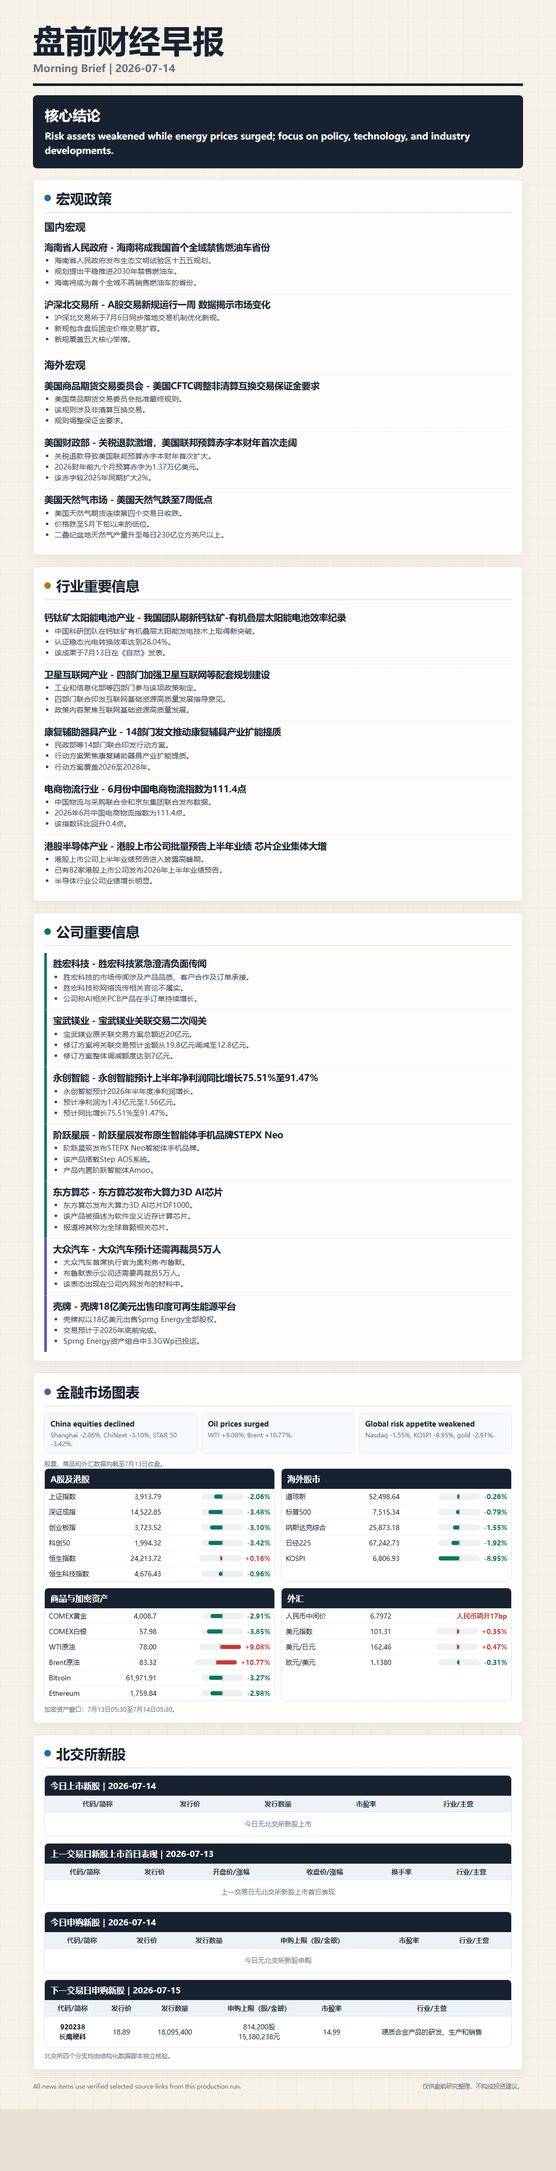
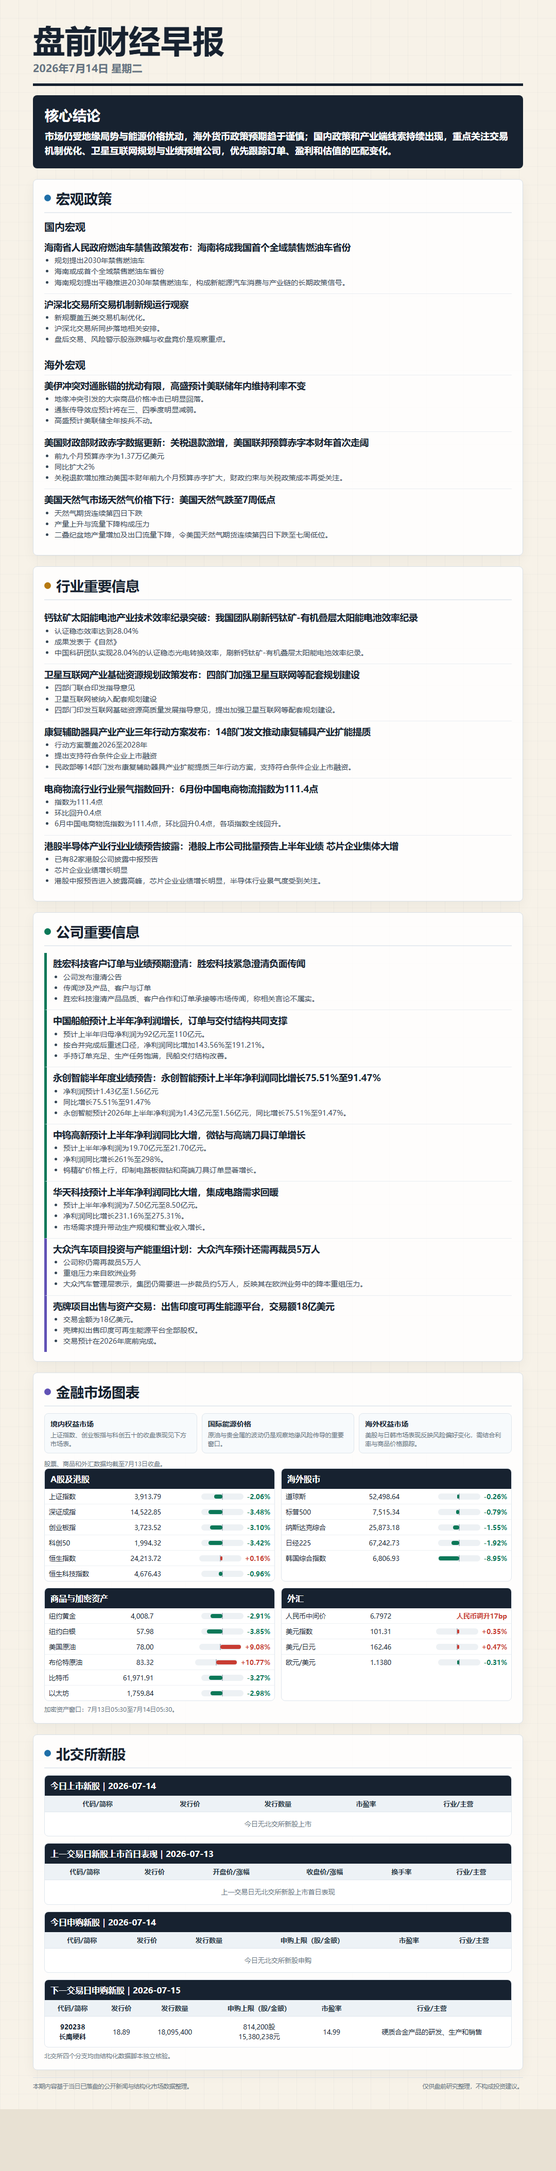
Correct 2026-07-14 morning brief

diff --git a/2026-07-14/report.html b/2026-07-14/report.html
@@ -22,80 +22,80 @@
   </style>
 </head>
 <body><main class="sheet">
-  <header><h1>盘前财经早报</h1><div class="date">Morning Brief | 2026-07-14</div></header>
-  <section class="lead"><h2>核心结论</h2><p>Risk assets weakened while energy prices surged; focus on policy, technology, and industry developments.</p></section>
+  <header><h1>盘前财经早报</h1><div class="date">2026年7月14日 星期二</div></header>
+  <section class="lead"><h2>核心结论</h2><p>市场仍受地缘局势与能源价格扰动，海外货币政策预期趋于谨慎；国内政策和产业端线索持续出现，重点关注交易机制优化、卫星互联网规划与业绩预增公司，优先跟踪订单、盈利和估值的匹配变化。</p></section>
   <section class="section"><h2 class="section-title"><span class="dot"></span>宏观政策</h2><h3 class="subhead">国内宏观</h3>
     <article class="item ">
-      <h4>海南省人民政府 - 海南将成我国首个全域禁售燃油车省份</h4>
-      <ul><li>海南省人民政府发布生态文明试验区十五五规划。</li><li>规划提出平稳推进2030年禁售燃油车。</li><li>海南将成为首个全域不再销售燃油车的省份。</li></ul>
+      <h4>海南省人民政府燃油车禁售政策发布：海南将成我国首个全域禁售燃油车省份</h4>
+      <ul><li>规划提出2030年禁售燃油车</li><li>海南或成首个全域禁售燃油车省份</li><li>海南规划提出平稳推进2030年禁售燃油车，构成新能源汽车消费与产业链的长期政策信号。</li></ul>
     </article>
     <article class="item ">
-      <h4>沪深北交易所 - A股交易新规运行一周 数据揭示市场变化</h4>
-      <ul><li>沪深北交易所于7月6日同步落地交易机制优化新规。</li><li>新规包含盘后固定价格交易扩容。</li><li>新规覆盖五大核心举措。</li></ul>
+      <h4>沪深北交易所交易机制新规运行观察</h4>
+      <ul><li>新规覆盖五类交易机制优化。</li><li>沪深北交易所同步落地相关安排。</li><li>盘后交易、风险警示股涨跌幅与收盘竞价是观察重点。</li></ul>
     </article><h3 class="subhead">海外宏观</h3>
     <article class="item ">
-      <h4>美国商品期货交易委员会 - 美国CFTC调整非清算互换交易保证金要求</h4>
-      <ul><li>美国商品期货交易委员会批准最终规则。</li><li>该规则涉及非清算互换交易。</li><li>规则调整保证金要求。</li></ul>
+      <h4>美伊冲突对通胀锚的扰动有限，高盛预计美联储年内维持利率不变</h4>
+      <ul><li>地缘冲突引发的大宗商品价格冲击已明显回落。</li><li>通胀传导效应预计将在三、四季度明显减弱。</li><li>高盛预计美联储全年按兵不动。</li></ul>
     </article>
     <article class="item ">
-      <h4>美国财政部 - 关税退款激增，美国联邦预算赤字本财年首次走阔</h4>
-      <ul><li>关税退款导致美国联邦预算赤字本财年首次扩大。</li><li>2026财年前九个月预算赤字为1.37万亿美元。</li><li>该赤字较2025年同期扩大2%。</li></ul>
+      <h4>美国财政部财政赤字数据更新：关税退款激增，美国联邦预算赤字本财年首次走阔</h4>
+      <ul><li>前九个月预算赤字为1.37万亿美元</li><li>同比扩大2%</li><li>关税退款增加推动美国本财年前九个月预算赤字扩大，财政约束与关税政策成本再受关注。</li></ul>
     </article>
     <article class="item ">
-      <h4>美国天然气市场 - 美国天然气跌至7周低点</h4>
-      <ul><li>美国天然气期货连续第四个交易日收跌。</li><li>价格跌至5月下旬以来的低位。</li><li>二叠纪盆地天然气产量升至每日230亿立方英尺以上。</li></ul>
+      <h4>美国天然气市场天然气价格下行：美国天然气跌至7周低点</h4>
+      <ul><li>天然气期货连续第四日下跌</li><li>产量上升与流量下降构成压力</li><li>二叠纪盆地产量增加及出口流量下降，令美国天然气期货连续第四日下跌至七周低位。</li></ul>
     </article></section>
   <section class="section"><h2 class="section-title"><span class="dot" style="background:var(--gold)"></span>行业重要信息</h2>
     <article class="item ">
-      <h4>钙钛矿太阳能电池产业 - 我国团队刷新钙钛矿-有机叠层太阳能电池效率纪录</h4>
-      <ul><li>中国科研团队在钙钛矿有机叠层太阳能发电技术上取得新突破。</li><li>认证稳态光电转换效率达到28.04%。</li><li>该成果于7月13日在《自然》发表。</li></ul>
+      <h4>钙钛矿太阳能电池产业技术效率纪录突破：我国团队刷新钙钛矿-有机叠层太阳能电池效率纪录</h4>
+      <ul><li>认证稳态效率达到28.04%</li><li>成果发表于《自然》</li><li>中国科研团队实现28.04%的认证稳态光电转换效率，刷新钙钛矿-有机叠层太阳能电池效率纪录。</li></ul>
     </article>
     <article class="item ">
-      <h4>卫星互联网产业 - 四部门加强卫星互联网等配套规划建设</h4>
-      <ul><li>工业和信息化部等四部门参与该项政策制定。</li><li>四部门联合印发互联网基础资源高质量发展指导意见。</li><li>政策内容聚焦互联网基础资源高质量发展。</li></ul>
+      <h4>卫星互联网产业基础资源规划政策发布：四部门加强卫星互联网等配套规划建设</h4>
+      <ul><li>四部门联合印发指导意见</li><li>卫星互联网被纳入配套规划建设</li><li>四部门印发互联网基础资源高质量发展指导意见，提出加强卫星互联网等配套规划建设。</li></ul>
     </article>
     <article class="item ">
-      <h4>康复辅助器具产业 - 14部门发文推动康复辅具产业扩能提质</h4>
-      <ul><li>民政部等14部门联合印发行动方案。</li><li>行动方案聚焦康复辅助器具产业扩能提质。</li><li>行动方案覆盖2026至2028年。</li></ul>
+      <h4>康复辅助器具产业产业三年行动方案发布：14部门发文推动康复辅具产业扩能提质</h4>
+      <ul><li>行动方案覆盖2026至2028年</li><li>提出支持符合条件企业上市融资</li><li>民政部等14部门发布康复辅助器具产业扩能提质三年行动方案，支持符合条件企业上市融资。</li></ul>
     </article>
     <article class="item ">
-      <h4>电商物流行业 - 6月份中国电商物流指数为111.4点</h4>
-      <ul><li>中国物流与采购联合会和京东集团联合发布数据。</li><li>2026年6月中国电商物流指数为111.4点。</li><li>该指数环比回升0.4点。</li></ul>
+      <h4>电商物流行业行业景气指数回升：6月份中国电商物流指数为111.4点</h4>
+      <ul><li>指数为111.4点</li><li>环比回升0.4点</li><li>6月中国电商物流指数为111.4点，环比回升0.4点，各项指数全线回升。</li></ul>
     </article>
     <article class="item ">
-      <h4>港股半导体产业 - 港股上市公司批量预告上半年业绩 芯片企业集体大增</h4>
-      <ul><li>港股上市公司上半年业绩预告进入披露高峰期。</li><li>已有82家港股上市公司发布2026年上半年业绩预告。</li><li>半导体行业公司业绩增长明显。</li></ul>
+      <h4>港股半导体产业行业业绩预告披露：港股上市公司批量预告上半年业绩 芯片企业集体大增</h4>
+      <ul><li>已有82家港股公司披露中报预告</li><li>芯片企业业绩增长明显</li><li>港股中报预告进入披露高峰，芯片企业业绩增长明显，半导体行业景气度受到关注。</li></ul>
     </article></section>
   <section class="section"><h2 class="section-title"><span class="dot" style="background:var(--green)"></span>公司重要信息</h2>
     <article class="item company-line">
-      <h4>胜宏科技 - 胜宏科技紧急澄清负面传闻</h4>
-      <ul><li>胜宏科技的市场传闻涉及产品品质、客户合作及订单承接。</li><li>胜宏科技称网络流传相关言论不属实。</li><li>公司称AI相关PCB产品在手订单持续增长。</li></ul>
+      <h4>胜宏科技客户订单与业绩预期澄清：胜宏科技紧急澄清负面传闻</h4>
+      <ul><li>公司发布澄清公告</li><li>传闻涉及产品、客户与订单</li><li>胜宏科技澄清产品品质、客户合作和订单承接等市场传闻，称相关言论不属实。</li></ul>
     </article>
     <article class="item company-line">
-      <h4>宝武镁业 - 宝武镁业关联交易二次闯关</h4>
-      <ul><li>宝武镁业原关联交易方案总额近20亿元。</li><li>修订方案将关联交易预计金额从19.8亿元调减至12.8亿元。</li><li>修订方案整体调减额度达到7亿元。</li></ul>
+      <h4>中国船舶预计上半年净利润增长，订单与交付结构共同支撑</h4>
+      <ul><li>预计上半年归母净利润为92亿元至110亿元。</li><li>按合并完成后重述口径，净利润同比增加143.56%至191.21%。</li><li>手持订单充足、生产任务饱满，民船交付结构改善。</li></ul>
     </article>
     <article class="item company-line">
-      <h4>永创智能 - 永创智能预计上半年净利润同比增长75.51%至91.47%</h4>
-      <ul><li>永创智能预计2026年半年度净利润增长。</li><li>预计净利润为1.43亿元至1.56亿元。</li><li>预计同比增长75.51%至91.47%。</li></ul>
+      <h4>永创智能半年度业绩预告：永创智能预计上半年净利润同比增长75.51%至91.47%</h4>
+      <ul><li>净利润预计1.43亿至1.56亿元</li><li>同比增长75.51%至91.47%</li><li>永创智能预计2026年上半年净利润为1.43亿元至1.56亿元，同比增长75.51%至91.47%。</li></ul>
     </article>
     <article class="item company-line">
-      <h4>阶跃星辰 - 阶跃星辰发布原生智能体手机品牌STEPX Neo</h4>
-      <ul><li>阶跃星辰发布STEPX Neo智能体手机品牌。</li><li>该产品搭载Step AOS系统。</li><li>产品内置阶跃智能体Amoo。</li></ul>
+      <h4>中钨高新预计上半年净利润同比大增，微钻与高端刀具订单增长</h4>
+      <ul><li>预计上半年净利润为19.70亿元至21.70亿元。</li><li>净利润同比增长261%至298%。</li><li>钨精矿价格上行，印制电路板微钻和高端刀具订单显著增长。</li></ul>
     </article>
     <article class="item company-line">
-      <h4>东方算芯 - 东方算芯发布大算力3D AI芯片</h4>
-      <ul><li>东方算芯发布大算力3D AI芯片DF1000。</li><li>该产品被描述为软件定义近存计算芯片。</li><li>报道将其称为全球首颗相关芯片。</li></ul>
+      <h4>华天科技预计上半年净利润同比大增，集成电路需求回暖</h4>
+      <ul><li>预计上半年净利润为7.50亿元至8.50亿元。</li><li>净利润同比增长231.16%至275.31%。</li><li>市场需求提升带动生产规模和营业收入增长。</li></ul>
     </article>
     <article class="item company-line overseas">
-      <h4>大众汽车 - 大众汽车预计还需再裁员5万人</h4>
-      <ul><li>大众汽车首席执行官为奥利弗·布鲁默。</li><li>布鲁默表示公司还需要再裁员5万人。</li><li>该表态出现在公司内网发布的材料中。</li></ul>
+      <h4>大众汽车项目投资与产能重组计划：大众汽车预计还需再裁员5万人</h4>
+      <ul><li>公司称仍需再裁员5万人</li><li>重组压力来自欧洲业务</li><li>大众汽车管理层表示，集团仍需要进一步裁员约5万人，反映其在欧洲业务中的降本重组压力。</li></ul>
     </article>
     <article class="item company-line overseas">
-      <h4>壳牌 - 壳牌18亿美元出售印度可再生能源平台</h4>
-      <ul><li>壳牌拟以18亿美元出售Sprng Energy全部股权。</li><li>交易预计于2026年底前完成。</li><li>Sprng Energy资产组合中3.3GWp已投运。</li></ul>
+      <h4>壳牌项目出售与资产交易：出售印度可再生能源平台，交易额18亿美元</h4>
+      <ul><li>交易金额为18亿美元。</li><li>壳牌拟出售印度可再生能源平台全部股权。</li><li>交易预计在2026年底前完成。</li></ul>
     </article></section>
-  <section class="section"><h2 class="section-title"><span class="dot" style="background:var(--violet)"></span>金融市场图表</h2><div class="market-headlines"><div class="market-note"><b>China equities declined</b><span>Shanghai -2.06%, ChiNext -3.10%, STAR 50 -3.42%.</span></div><div class="market-note"><b>Oil prices surged</b><span>WTI +9.08%; Brent +10.77%.</span></div><div class="market-note"><b>Global risk appetite weakened</b><span>Nasdaq -1.55%, KOSPI -8.95%, gold -2.91%.</span></div></div><p class="market-caption">股票、商品和外汇数据均截至7月13日收盘。</p><div class="market-grid"><div class="market-box"><h3>A股及港股</h3><table><tr><td>上证指数</td><td>3,913.79</td><td><span class="bar-wrap"><span class="bar neg downb" style="width:16.5px"></span></span><span class="down">-2.06%</span></td></tr><tr><td>深证成指</td><td>14,522.85</td><td><span class="bar-wrap"><span class="bar neg downb" style="width:27.9px"></span></span><span class="down">-3.48%</span></td></tr><tr><td>创业板指</td><td>3,723.52</td><td><span class="bar-wrap"><span class="bar neg downb" style="width:24.8px"></span></span><span class="down">-3.10%</span></td></tr><tr><td>科创50</td><td>1,994.32</td><td><span class="bar-wrap"><span class="bar neg downb" style="width:27.4px"></span></span><span class="down">-3.42%</span></td></tr><tr><td>恒生指数</td><td>24,213.72</td><td><span class="bar-wrap"><span class="bar pos upb" style="width:4.0px"></span></span><span class="up">+0.16%</span></td></tr><tr><td>恒生科技指数</td><td>4,676.43</td><td><span class="bar-wrap"><span class="bar neg downb" style="width:7.7px"></span></span><span class="down">-0.96%</span></td></tr></table></div><div class="market-box"><h3>海外股市</h3><table><tr><td>道琼斯</td><td>52,498.64</td><td><span class="bar-wrap"><span class="bar neg downb" style="width:4.0px"></span></span><span class="down">-0.26%</span></td></tr><tr><td>标普500</td><td>7,515.34</td><td><span class="bar-wrap"><span class="bar neg downb" style="width:6.3px"></span></span><span class="down">-0.79%</span></td></tr><tr><td>纳斯达克综合</td><td>25,873.18</td><td><span class="bar-wrap"><span class="bar neg downb" style="width:12.4px"></span></span><span class="down">-1.55%</span></td></tr><tr><td>日经225</td><td>67,242.73</td><td><span class="bar-wrap"><span class="bar neg downb" style="width:15.3px"></span></span><span class="down">-1.92%</span></td></tr><tr><td>KOSPI</td><td>6,806.93</td><td><span class="bar-wrap"><span class="bar neg downb" style="width:40.0px"></span></span><span class="down">-8.95%</span></td></tr></table></div><div class="market-box"><h3>商品与加密资产</h3><table><tr><td>COMEX黄金</td><td>4,008.7</td><td><span class="bar-wrap"><span class="bar neg downb" style="width:23.3px"></span></span><span class="down">-2.91%</span></td></tr><tr><td>COMEX白银</td><td>57.98</td><td><span class="bar-wrap"><span class="bar neg downb" style="width:30.8px"></span></span><span class="down">-3.85%</span></td></tr><tr><td>WTI原油</td><td>78.00</td><td><span class="bar-wrap"><span class="bar pos upb" style="width:40.0px"></span></span><span class="up">+9.08%</span></td></tr><tr><td>Brent原油</td><td>83.32</td><td><span class="bar-wrap"><span class="bar pos upb" style="width:40.0px"></span></span><span class="up">+10.77%</span></td></tr><tr><td>Bitcoin</td><td>61,971.91</td><td><span class="bar-wrap"><span class="bar neg downb" style="width:26.2px"></span></span><span class="down">-3.27%</span></td></tr><tr><td>Ethereum</td><td>1,759.84</td><td><span class="bar-wrap"><span class="bar neg downb" style="width:23.8px"></span></span><span class="down">-2.98%</span></td></tr></table></div><div class="market-box"><h3>外汇</h3><table><tr><td>人民币中间价</td><td>6.7972</td><td><span class="up">人民币调升17bp</span></td></tr><tr><td>美元指数</td><td>101.31</td><td><span class="bar-wrap"><span class="bar pos upb" style="width:4.0px"></span></span><span class="up">+0.35%</span></td></tr><tr><td>美元/日元</td><td>162.46</td><td><span class="bar-wrap"><span class="bar pos upb" style="width:4.0px"></span></span><span class="up">+0.47%</span></td></tr><tr><td>欧元/美元</td><td>1.1380</td><td><span class="bar-wrap"><span class="bar neg downb" style="width:4.0px"></span></span><span class="down">-0.31%</span></td></tr></table></div></div><p class="market-caption">加密资产窗口：7月13日05:30至7月14日05:30。</p></section>
+  <section class="section"><h2 class="section-title"><span class="dot" style="background:var(--violet)"></span>金融市场图表</h2><div class="market-headlines"><div class="market-note"><b>境内权益市场</b><span>上证指数、创业板指与科创五十的收盘表现见下方市场表。</span></div><div class="market-note"><b>国际能源价格</b><span>原油与贵金属的波动仍是观察地缘风险传导的重要窗口。</span></div><div class="market-note"><b>海外权益市场</b><span>美股与日韩市场表现反映风险偏好变化，需结合利率与商品价格跟踪。</span></div></div><p class="market-caption">股票、商品和外汇数据均截至7月13日收盘。</p><div class="market-grid"><div class="market-box"><h3>A股及港股</h3><table><tr><td>上证指数</td><td>3,913.79</td><td><span class="bar-wrap"><span class="bar neg downb" style="width:16.5px"></span></span><span class="down">-2.06%</span></td></tr><tr><td>深证成指</td><td>14,522.85</td><td><span class="bar-wrap"><span class="bar neg downb" style="width:27.9px"></span></span><span class="down">-3.48%</span></td></tr><tr><td>创业板指</td><td>3,723.52</td><td><span class="bar-wrap"><span class="bar neg downb" style="width:24.8px"></span></span><span class="down">-3.10%</span></td></tr><tr><td>科创50</td><td>1,994.32</td><td><span class="bar-wrap"><span class="bar neg downb" style="width:27.4px"></span></span><span class="down">-3.42%</span></td></tr><tr><td>恒生指数</td><td>24,213.72</td><td><span class="bar-wrap"><span class="bar pos upb" style="width:4.0px"></span></span><span class="up">+0.16%</span></td></tr><tr><td>恒生科技指数</td><td>4,676.43</td><td><span class="bar-wrap"><span class="bar neg downb" style="width:7.7px"></span></span><span class="down">-0.96%</span></td></tr></table></div><div class="market-box"><h3>海外股市</h3><table><tr><td>道琼斯</td><td>52,498.64</td><td><span class="bar-wrap"><span class="bar neg downb" style="width:4.0px"></span></span><span class="down">-0.26%</span></td></tr><tr><td>标普500</td><td>7,515.34</td><td><span class="bar-wrap"><span class="bar neg downb" style="width:6.3px"></span></span><span class="down">-0.79%</span></td></tr><tr><td>纳斯达克综合</td><td>25,873.18</td><td><span class="bar-wrap"><span class="bar neg downb" style="width:12.4px"></span></span><span class="down">-1.55%</span></td></tr><tr><td>日经225</td><td>67,242.73</td><td><span class="bar-wrap"><span class="bar neg downb" style="width:15.3px"></span></span><span class="down">-1.92%</span></td></tr><tr><td>韩国综合指数</td><td>6,806.93</td><td><span class="bar-wrap"><span class="bar neg downb" style="width:40.0px"></span></span><span class="down">-8.95%</span></td></tr></table></div><div class="market-box"><h3>商品与加密资产</h3><table><tr><td>纽约黄金</td><td>4,008.7</td><td><span class="bar-wrap"><span class="bar neg downb" style="width:23.3px"></span></span><span class="down">-2.91%</span></td></tr><tr><td>纽约白银</td><td>57.98</td><td><span class="bar-wrap"><span class="bar neg downb" style="width:30.8px"></span></span><span class="down">-3.85%</span></td></tr><tr><td>美国原油</td><td>78.00</td><td><span class="bar-wrap"><span class="bar pos upb" style="width:40.0px"></span></span><span class="up">+9.08%</span></td></tr><tr><td>布伦特原油</td><td>83.32</td><td><span class="bar-wrap"><span class="bar pos upb" style="width:40.0px"></span></span><span class="up">+10.77%</span></td></tr><tr><td>比特币</td><td>61,971.91</td><td><span class="bar-wrap"><span class="bar neg downb" style="width:26.2px"></span></span><span class="down">-3.27%</span></td></tr><tr><td>以太坊</td><td>1,759.84</td><td><span class="bar-wrap"><span class="bar neg downb" style="width:23.8px"></span></span><span class="down">-2.98%</span></td></tr></table></div><div class="market-box"><h3>外汇</h3><table><tr><td>人民币中间价</td><td>6.7972</td><td><span class="up">人民币调升17bp</span></td></tr><tr><td>美元指数</td><td>101.31</td><td><span class="bar-wrap"><span class="bar pos upb" style="width:4.0px"></span></span><span class="up">+0.35%</span></td></tr><tr><td>美元/日元</td><td>162.46</td><td><span class="bar-wrap"><span class="bar pos upb" style="width:4.0px"></span></span><span class="up">+0.47%</span></td></tr><tr><td>欧元/美元</td><td>1.1380</td><td><span class="bar-wrap"><span class="bar neg downb" style="width:4.0px"></span></span><span class="down">-0.31%</span></td></tr></table></div></div><p class="market-caption">加密资产窗口：7月13日05:30至7月14日05:30。</p></section>
   <section class="section"><h2 class="section-title"><span class="dot" style="background:var(--blue)"></span>北交所新股</h2><div class="ipo-box"><h3>今日上市新股｜2026-07-14</h3><table class="ipo-table"><tr><th>代码/简称</th><th>发行价</th><th>发行数量</th><th>市盈率</th><th>行业/主营</th></tr><tr><td class="empty" colspan="5">今日无北交所新股上市</td></tr></table></div><div class="ipo-box"><h3>上一交易日新股上市首日表现｜2026-07-13</h3><table class="ipo-table"><tr><th>代码/简称</th><th>发行价</th><th>开盘价/涨幅</th><th>收盘价/涨幅</th><th>换手率</th><th>行业/主营</th></tr><tr><td class="empty" colspan="6">上一交易日无北交所新股上市首日表现</td></tr></table></div><div class="ipo-box"><h3>今日申购新股｜2026-07-14</h3><table class="ipo-table"><tr><th>代码/简称</th><th>发行价</th><th>发行数量</th><th>申购上限（股/金额）</th><th>市盈率</th><th>行业/主营</th></tr><tr><td class="empty" colspan="6">今日无北交所新股申购</td></tr></table></div><div class="ipo-box"><h3>下一交易日申购新股｜2026-07-15</h3><table class="ipo-table"><tr><th>代码/简称</th><th>发行价</th><th>发行数量</th><th>申购上限（股/金额）</th><th>市盈率</th><th>行业/主营</th></tr><tr><td class="codecell">920238<br>长鹰硬科</td><td>18.89</td><td>18,095,400</td><td class="shares">814,200股<br>15,380,238元</td><td>14.99</td><td>硬质合金产品的研发、生产和销售</td></tr></table></div><div class="check-note">北交所四个分支均由结构化数据脚本独立核验。</div></section>
-  <footer><div>All news items use verified selected source links from this production run.</div><div>仅供盘前研究整理，不构成投资建议。</div></footer>
+  <footer><div>本期内容基于当日已落盘的公开新闻与结构化市场数据整理。</div><div>仅供盘前研究整理，不构成投资建议。</div></footer>
 </main></body></html>

diff --git a/2026-07-14/sources-2026-07-14.md b/2026-07-14/sources-2026-07-14.md
@@ -13,7 +13,7 @@
 ## Selected article URLs
 - domesticMacro: 海南将成我国首个全域禁售燃油车省份 - https://finance.eastmoney.com/a/202607133804228776.html
 - domesticMacro: A股交易新规运行一周 数据揭示市场变化 - https://finance.eastmoney.com/a/202607143804296936.html
-- overseasMacro: 美国CFTC调整非清算互换交易保证金要求 - https://www.cls.cn/detail/2425186
+- overseasMacro: 高盛：伊朗战争不足以打乱通胀锚，预计美联储全年按兵不动 - http://news.10jqka.com.cn/20260713/c678131285.shtml
 - overseasMacro: 关税退款激增，美国联邦预算赤字本财年首次走阔 - https://wallstreetcn.com/livenews/3133063
 - overseasMacro: 美国天然气跌至7周低点 - https://wallstreetcn.com/livenews/3133061
 - industry: 我国团队刷新钙钛矿-有机叠层太阳能电池效率纪录 - https://finance.eastmoney.com/a/202607133804247757.html
@@ -22,9 +22,9 @@
 - industry: 6月份中国电商物流指数为111.4点 - http://field.10jqka.com.cn/20260714/c678147480.shtml
 - industry: 港股上市公司批量预告上半年业绩 芯片企业集体大增 - https://finance.eastmoney.com/a/202607143804297480.html
 - domesticCompanies: 胜宏科技紧急澄清负面传闻 - https://finance.eastmoney.com/a/202607133804207560.html
-- domesticCompanies: 宝武镁业关联交易二次闯关 - https://finance.eastmoney.com/a/202607143804293667.html
+- domesticCompanies: 中国船舶：上半年净利同比（按合并完成后重述口径）预增144%至191% 手持订单充足 - https://www.cls.cn/detail/2424544
 - domesticCompanies: 永创智能预计上半年净利润同比增长75.51%至91.47% - https://finance.eastmoney.com/a/202607133804276823.html
-- domesticCompanies: 阶跃星辰发布原生智能体手机品牌STEPX Neo - http://news.10jqka.com.cn/20260713/c678147225.shtml
-- domesticCompanies: 东方算芯发布大算力3D AI芯片 - http://news.10jqka.com.cn/20260713/c678147261.shtml
+- domesticCompanies: 中钨高新：预计上半年净利润同比增长261%-298% PCB微钻、高端刀具等产品订单显著增长 - https://www.cls.cn/detail/2424587
+- domesticCompanies: 华天科技：预计上半年净利润同比增长231%-275% 集成电路市场需求提升生产规模及营业收入增长 - https://www.cls.cn/detail/2424676
 - overseasCompanies: 大众汽车预计还需再裁员5万人 - https://finance.eastmoney.com/a/202607133804214374.html
 - overseasCompanies: 壳牌18亿美元出售印度可再生能源平台 - https://www.cls.cn/detail/2425016
